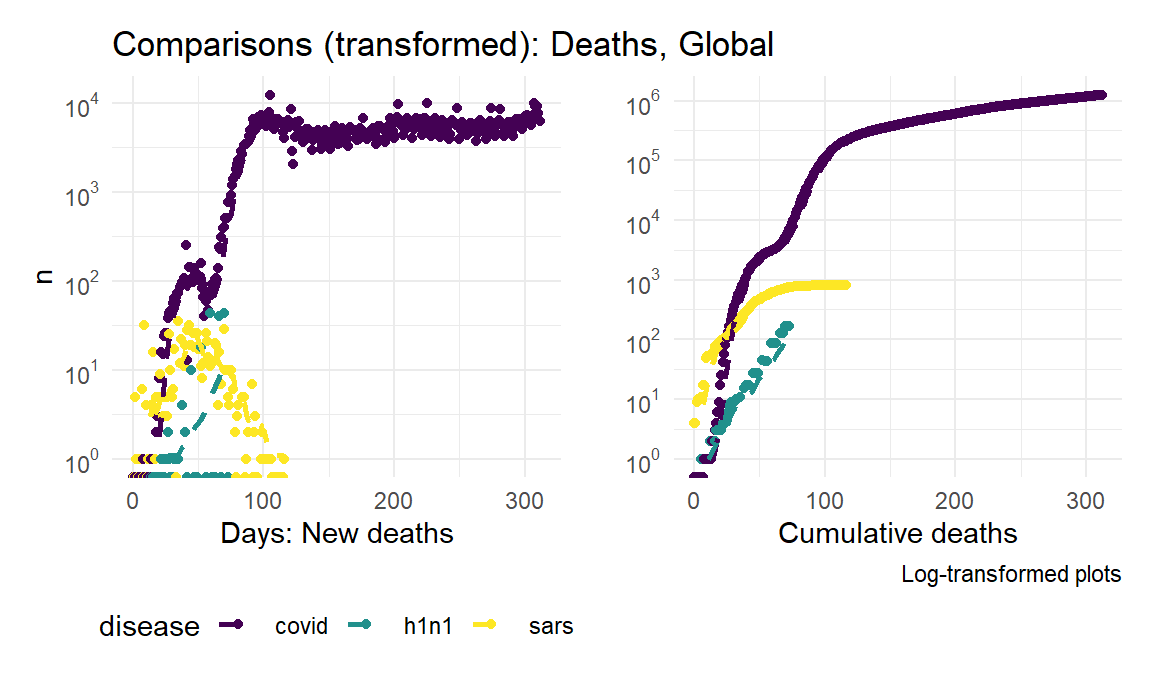
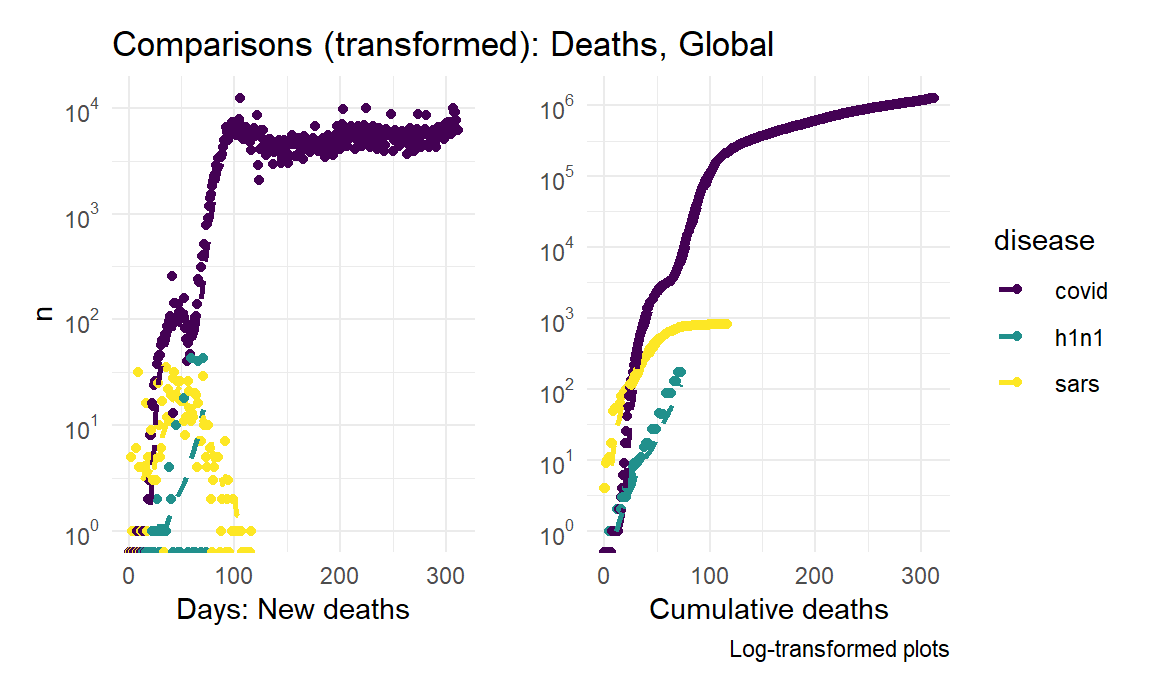
full report: discussion

diff --git a/full_report.html b/full_report.html
@@ -555,8 +555,8 @@ plot_2 =
 # Comparison-plot
 
 subplot(plot_1, plot_2, shareX = TRUE,  shareY = TRUE)</code></pre>
-<div id="htmlwidget-bc7682255256d6012be4" style="width:90%;height:345.6px;" class="plotly html-widget"></div>
-<script type="application/json" data-for="htmlwidget-bc7682255256d6012be4">{"x":{"data":[{"x":[1,2,3,4,5,6,7],"y":[439,1035,2166,2157,1270,629,338],"type":"bar","marker":{"colorbar":{"title":"mortality","ticklen":2},"cmin":338,"cmax":2166,"colorscale":[["0","rgba(68,1,84,1)"],["0.0416666666666667","rgba(70,19,97,1)"],["0.0833333333333334","rgba(72,32,111,1)"],["0.125","rgba(71,45,122,1)"],["0.166666666666667","rgba(68,58,128,1)"],["0.208333333333333","rgba(64,70,135,1)"],["0.25","rgba(60,82,138,1)"],["0.291666666666667","rgba(56,93,140,1)"],["0.333333333333333","rgba(49,104,142,1)"],["0.375","rgba(46,114,142,1)"],["0.416666666666667","rgba(42,123,142,1)"],["0.458333333333333","rgba(38,133,141,1)"],["0.5","rgba(37,144,140,1)"],["0.541666666666667","rgba(33,154,138,1)"],["0.583333333333333","rgba(39,164,133,1)"],["0.625","rgba(47,174,127,1)"],["0.666666666666667","rgba(53,183,121,1)"],["0.708333333333333","rgba(79,191,110,1)"],["0.75","rgba(98,199,98,1)"],["0.791666666666667","rgba(119,207,85,1)"],["0.833333333333333","rgba(147,214,70,1)"],["0.875","rgba(172,220,52,1)"],["0.916666666666667","rgba(199,225,42,1)"],["0.958333333333333","rgba(226,228,40,1)"],["1","rgba(253,231,37,1)"]],"showscale":false,"color":[439,1035,2166,2157,1270,629,338],"line":{"colorbar":{"title":"","ticklen":2},"cmin":338,"cmax":2166,"colorscale":[["0","rgba(68,1,84,1)"],["0.0416666666666667","rgba(70,19,97,1)"],["0.0833333333333334","rgba(72,32,111,1)"],["0.125","rgba(71,45,122,1)"],["0.166666666666667","rgba(68,58,128,1)"],["0.208333333333333","rgba(64,70,135,1)"],["0.25","rgba(60,82,138,1)"],["0.291666666666667","rgba(56,93,140,1)"],["0.333333333333333","rgba(49,104,142,1)"],["0.375","rgba(46,114,142,1)"],["0.416666666666667","rgba(42,123,142,1)"],["0.458333333333333","rgba(38,133,141,1)"],["0.5","rgba(37,144,140,1)"],["0.541666666666667","rgba(33,154,138,1)"],["0.583333333333333","rgba(39,164,133,1)"],["0.625","rgba(47,174,127,1)"],["0.666666666666667","rgba(53,183,121,1)"],["0.708333333333333","rgba(79,191,110,1)"],["0.75","rgba(98,199,98,1)"],["0.791666666666667","rgba(119,207,85,1)"],["0.833333333333333","rgba(147,214,70,1)"],["0.875","rgba(172,220,52,1)"],["0.916666666666667","rgba(199,225,42,1)"],["0.958333333333333","rgba(226,228,40,1)"],["1","rgba(253,231,37,1)"]],"showscale":false,"color":[439,1035,2166,2157,1270,629,338]}},"xaxis":"x","yaxis":"y","frame":null},{"x":[1,7],"y":[338,2166],"type":"scatter","mode":"markers","opacity":0,"hoverinfo":"none","showlegend":false,"marker":{"colorbar":{"title":"mortality","ticklen":2,"len":0.333333333333333,"lenmode":"fraction","y":1,"yanchor":"top"},"cmin":338,"cmax":2166,"colorscale":[["0","rgba(68,1,84,1)"],["0.0416666666666667","rgba(70,19,97,1)"],["0.0833333333333334","rgba(72,32,111,1)"],["0.125","rgba(71,45,122,1)"],["0.166666666666667","rgba(68,58,128,1)"],["0.208333333333333","rgba(64,70,135,1)"],["0.25","rgba(60,82,138,1)"],["0.291666666666667","rgba(56,93,140,1)"],["0.333333333333333","rgba(49,104,142,1)"],["0.375","rgba(46,114,142,1)"],["0.416666666666667","rgba(42,123,142,1)"],["0.458333333333333","rgba(38,133,141,1)"],["0.5","rgba(37,144,140,1)"],["0.541666666666667","rgba(33,154,138,1)"],["0.583333333333333","rgba(39,164,133,1)"],["0.625","rgba(47,174,127,1)"],["0.666666666666667","rgba(53,183,121,1)"],["0.708333333333333","rgba(79,191,110,1)"],["0.75","rgba(98,199,98,1)"],["0.791666666666667","rgba(119,207,85,1)"],["0.833333333333333","rgba(147,214,70,1)"],["0.875","rgba(172,220,52,1)"],["0.916666666666667","rgba(199,225,42,1)"],["0.958333333333333","rgba(226,228,40,1)"],["1","rgba(253,231,37,1)"]],"showscale":true,"color":[338,2166],"line":{"color":"rgba(255,127,14,1)"}},"xaxis":"x","yaxis":"y","frame":null},{"x":[1,2,3,4,5,6,7],"y":[216,251,294,320,322,286,206],"type":"bar","marker":{"colorbar":{"title":"mortality","ticklen":2},"cmin":206,"cmax":322,"colorscale":[["0","rgba(68,1,84,1)"],["0.0416666666666667","rgba(70,19,97,1)"],["0.0833333333333332","rgba(72,32,111,1)"],["0.125","rgba(71,45,122,1)"],["0.166666666666667","rgba(68,58,128,1)"],["0.208333333333333","rgba(64,70,135,1)"],["0.25","rgba(60,82,138,1)"],["0.291666666666667","rgba(56,93,140,1)"],["0.333333333333333","rgba(49,104,142,1)"],["0.375","rgba(46,114,142,1)"],["0.416666666666667","rgba(42,123,142,1)"],["0.458333333333333","rgba(38,133,141,1)"],["0.5","rgba(37,144,140,1)"],["0.541666666666667","rgba(33,154,138,1)"],["0.583333333333333","rgba(39,164,133,1)"],["0.625","rgba(47,174,127,1)"],["0.666666666666667","rgba(53,183,121,1)"],["0.708333333333333","rgba(79,191,110,1)"],["0.75","rgba(98,199,98,1)"],["0.791666666666667","rgba(119,207,85,1)"],["0.833333333333333","rgba(147,214,70,1)"],["0.875","rgba(172,220,52,1)"],["0.916666666666667","rgba(199,225,42,1)"],["0.958333333333333","rgba(226,228,40,1)"],["1","rgba(253,231,37,1)"]],"showscale":false,"color":[216,251,294,320,322,286,206],"line":{"colorbar":{"title":"","ticklen":2},"cmin":206,"cmax":322,"colorscale":[["0","rgba(68,1,84,1)"],["0.0416666666666667","rgba(70,19,97,1)"],["0.0833333333333332","rgba(72,32,111,1)"],["0.125","rgba(71,45,122,1)"],["0.166666666666667","rgba(68,58,128,1)"],["0.208333333333333","rgba(64,70,135,1)"],["0.25","rgba(60,82,138,1)"],["0.291666666666667","rgba(56,93,140,1)"],["0.333333333333333","rgba(49,104,142,1)"],["0.375","rgba(46,114,142,1)"],["0.416666666666667","rgba(42,123,142,1)"],["0.458333333333333","rgba(38,133,141,1)"],["0.5","rgba(37,144,140,1)"],["0.541666666666667","rgba(33,154,138,1)"],["0.583333333333333","rgba(39,164,133,1)"],["0.625","rgba(47,174,127,1)"],["0.666666666666667","rgba(53,183,121,1)"],["0.708333333333333","rgba(79,191,110,1)"],["0.75","rgba(98,199,98,1)"],["0.791666666666667","rgba(119,207,85,1)"],["0.833333333333333","rgba(147,214,70,1)"],["0.875","rgba(172,220,52,1)"],["0.916666666666667","rgba(199,225,42,1)"],["0.958333333333333","rgba(226,228,40,1)"],["1","rgba(253,231,37,1)"]],"showscale":false,"color":[216,251,294,320,322,286,206]}},"xaxis":"x2","yaxis":"y","frame":null},{"x":[1,7],"y":[206,322],"type":"scatter","mode":"markers","opacity":0,"hoverinfo":"none","showlegend":false,"marker":{"colorbar":{"title":"mortality","ticklen":2,"len":0.333333333333333,"lenmode":"fraction","y":0.666666666666667,"yanchor":"top"},"cmin":206,"cmax":322,"colorscale":[["0","rgba(68,1,84,1)"],["0.0416666666666667","rgba(70,19,97,1)"],["0.0833333333333332","rgba(72,32,111,1)"],["0.125","rgba(71,45,122,1)"],["0.166666666666667","rgba(68,58,128,1)"],["0.208333333333333","rgba(64,70,135,1)"],["0.25","rgba(60,82,138,1)"],["0.291666666666667","rgba(56,93,140,1)"],["0.333333333333333","rgba(49,104,142,1)"],["0.375","rgba(46,114,142,1)"],["0.416666666666667","rgba(42,123,142,1)"],["0.458333333333333","rgba(38,133,141,1)"],["0.5","rgba(37,144,140,1)"],["0.541666666666667","rgba(33,154,138,1)"],["0.583333333333333","rgba(39,164,133,1)"],["0.625","rgba(47,174,127,1)"],["0.666666666666667","rgba(53,183,121,1)"],["0.708333333333333","rgba(79,191,110,1)"],["0.75","rgba(98,199,98,1)"],["0.791666666666667","rgba(119,207,85,1)"],["0.833333333333333","rgba(147,214,70,1)"],["0.875","rgba(172,220,52,1)"],["0.916666666666667","rgba(199,225,42,1)"],["0.958333333333333","rgba(226,228,40,1)"],["1","rgba(253,231,37,1)"]],"showscale":true,"color":[206,322],"line":{"color":"rgba(214,39,40,1)"}},"xaxis":"x2","yaxis":"y","frame":null}],"layout":{"xaxis":{"domain":[0,0.48],"automargin":true,"title":"Spanish flu","anchor":"y"},"xaxis2":{"domain":[0.52,1],"automargin":true,"title":"COVID-19 (weeks)","anchor":"y"},"yaxis":{"domain":[0,1],"automargin":true,"title":"mortality","anchor":"x"},"annotations":[],"shapes":[],"images":[],"margin":{"b":40,"l":60,"t":25,"r":10},"title":"Spanish Flu vs COVID-19: Peak 7 weeks (Chicago)","hovermode":"closest","showlegend":true,"legend":{"yanchor":"top","y":0.333333333333333}},"attrs":{"29b46ae0632":{"x":{},"y":{},"color":{},"alpha_stroke":1,"sizes":[10,100],"spans":[1,20],"type":"bar"},"29b46bad187":{"x":{},"y":{},"color":{},"alpha_stroke":1,"sizes":[10,100],"spans":[1,20],"type":"bar"}},"source":"A","config":{"showSendToCloud":false},"highlight":{"on":"plotly_click","persistent":false,"dynamic":false,"selectize":false,"opacityDim":0.2,"selected":{"opacity":1},"debounce":0},"subplot":true,"shinyEvents":["plotly_hover","plotly_click","plotly_selected","plotly_relayout","plotly_brushed","plotly_brushing","plotly_clickannotation","plotly_doubleclick","plotly_deselect","plotly_afterplot","plotly_sunburstclick"],"base_url":"https://plot.ly"},"evals":[],"jsHooks":[]}</script>
+<div id="htmlwidget-001d4d0efa95390ac199" style="width:90%;height:345.6px;" class="plotly html-widget"></div>
+<script type="application/json" data-for="htmlwidget-001d4d0efa95390ac199">{"x":{"data":[{"x":[1,2,3,4,5,6,7],"y":[439,1035,2166,2157,1270,629,338],"type":"bar","marker":{"colorbar":{"title":"mortality","ticklen":2},"cmin":338,"cmax":2166,"colorscale":[["0","rgba(68,1,84,1)"],["0.0416666666666667","rgba(70,19,97,1)"],["0.0833333333333334","rgba(72,32,111,1)"],["0.125","rgba(71,45,122,1)"],["0.166666666666667","rgba(68,58,128,1)"],["0.208333333333333","rgba(64,70,135,1)"],["0.25","rgba(60,82,138,1)"],["0.291666666666667","rgba(56,93,140,1)"],["0.333333333333333","rgba(49,104,142,1)"],["0.375","rgba(46,114,142,1)"],["0.416666666666667","rgba(42,123,142,1)"],["0.458333333333333","rgba(38,133,141,1)"],["0.5","rgba(37,144,140,1)"],["0.541666666666667","rgba(33,154,138,1)"],["0.583333333333333","rgba(39,164,133,1)"],["0.625","rgba(47,174,127,1)"],["0.666666666666667","rgba(53,183,121,1)"],["0.708333333333333","rgba(79,191,110,1)"],["0.75","rgba(98,199,98,1)"],["0.791666666666667","rgba(119,207,85,1)"],["0.833333333333333","rgba(147,214,70,1)"],["0.875","rgba(172,220,52,1)"],["0.916666666666667","rgba(199,225,42,1)"],["0.958333333333333","rgba(226,228,40,1)"],["1","rgba(253,231,37,1)"]],"showscale":false,"color":[439,1035,2166,2157,1270,629,338],"line":{"colorbar":{"title":"","ticklen":2},"cmin":338,"cmax":2166,"colorscale":[["0","rgba(68,1,84,1)"],["0.0416666666666667","rgba(70,19,97,1)"],["0.0833333333333334","rgba(72,32,111,1)"],["0.125","rgba(71,45,122,1)"],["0.166666666666667","rgba(68,58,128,1)"],["0.208333333333333","rgba(64,70,135,1)"],["0.25","rgba(60,82,138,1)"],["0.291666666666667","rgba(56,93,140,1)"],["0.333333333333333","rgba(49,104,142,1)"],["0.375","rgba(46,114,142,1)"],["0.416666666666667","rgba(42,123,142,1)"],["0.458333333333333","rgba(38,133,141,1)"],["0.5","rgba(37,144,140,1)"],["0.541666666666667","rgba(33,154,138,1)"],["0.583333333333333","rgba(39,164,133,1)"],["0.625","rgba(47,174,127,1)"],["0.666666666666667","rgba(53,183,121,1)"],["0.708333333333333","rgba(79,191,110,1)"],["0.75","rgba(98,199,98,1)"],["0.791666666666667","rgba(119,207,85,1)"],["0.833333333333333","rgba(147,214,70,1)"],["0.875","rgba(172,220,52,1)"],["0.916666666666667","rgba(199,225,42,1)"],["0.958333333333333","rgba(226,228,40,1)"],["1","rgba(253,231,37,1)"]],"showscale":false,"color":[439,1035,2166,2157,1270,629,338]}},"xaxis":"x","yaxis":"y","frame":null},{"x":[1,7],"y":[338,2166],"type":"scatter","mode":"markers","opacity":0,"hoverinfo":"none","showlegend":false,"marker":{"colorbar":{"title":"mortality","ticklen":2,"len":0.333333333333333,"lenmode":"fraction","y":1,"yanchor":"top"},"cmin":338,"cmax":2166,"colorscale":[["0","rgba(68,1,84,1)"],["0.0416666666666667","rgba(70,19,97,1)"],["0.0833333333333334","rgba(72,32,111,1)"],["0.125","rgba(71,45,122,1)"],["0.166666666666667","rgba(68,58,128,1)"],["0.208333333333333","rgba(64,70,135,1)"],["0.25","rgba(60,82,138,1)"],["0.291666666666667","rgba(56,93,140,1)"],["0.333333333333333","rgba(49,104,142,1)"],["0.375","rgba(46,114,142,1)"],["0.416666666666667","rgba(42,123,142,1)"],["0.458333333333333","rgba(38,133,141,1)"],["0.5","rgba(37,144,140,1)"],["0.541666666666667","rgba(33,154,138,1)"],["0.583333333333333","rgba(39,164,133,1)"],["0.625","rgba(47,174,127,1)"],["0.666666666666667","rgba(53,183,121,1)"],["0.708333333333333","rgba(79,191,110,1)"],["0.75","rgba(98,199,98,1)"],["0.791666666666667","rgba(119,207,85,1)"],["0.833333333333333","rgba(147,214,70,1)"],["0.875","rgba(172,220,52,1)"],["0.916666666666667","rgba(199,225,42,1)"],["0.958333333333333","rgba(226,228,40,1)"],["1","rgba(253,231,37,1)"]],"showscale":true,"color":[338,2166],"line":{"color":"rgba(255,127,14,1)"}},"xaxis":"x","yaxis":"y","frame":null},{"x":[1,2,3,4,5,6,7],"y":[216,251,294,320,322,286,206],"type":"bar","marker":{"colorbar":{"title":"mortality","ticklen":2},"cmin":206,"cmax":322,"colorscale":[["0","rgba(68,1,84,1)"],["0.0416666666666667","rgba(70,19,97,1)"],["0.0833333333333332","rgba(72,32,111,1)"],["0.125","rgba(71,45,122,1)"],["0.166666666666667","rgba(68,58,128,1)"],["0.208333333333333","rgba(64,70,135,1)"],["0.25","rgba(60,82,138,1)"],["0.291666666666667","rgba(56,93,140,1)"],["0.333333333333333","rgba(49,104,142,1)"],["0.375","rgba(46,114,142,1)"],["0.416666666666667","rgba(42,123,142,1)"],["0.458333333333333","rgba(38,133,141,1)"],["0.5","rgba(37,144,140,1)"],["0.541666666666667","rgba(33,154,138,1)"],["0.583333333333333","rgba(39,164,133,1)"],["0.625","rgba(47,174,127,1)"],["0.666666666666667","rgba(53,183,121,1)"],["0.708333333333333","rgba(79,191,110,1)"],["0.75","rgba(98,199,98,1)"],["0.791666666666667","rgba(119,207,85,1)"],["0.833333333333333","rgba(147,214,70,1)"],["0.875","rgba(172,220,52,1)"],["0.916666666666667","rgba(199,225,42,1)"],["0.958333333333333","rgba(226,228,40,1)"],["1","rgba(253,231,37,1)"]],"showscale":false,"color":[216,251,294,320,322,286,206],"line":{"colorbar":{"title":"","ticklen":2},"cmin":206,"cmax":322,"colorscale":[["0","rgba(68,1,84,1)"],["0.0416666666666667","rgba(70,19,97,1)"],["0.0833333333333332","rgba(72,32,111,1)"],["0.125","rgba(71,45,122,1)"],["0.166666666666667","rgba(68,58,128,1)"],["0.208333333333333","rgba(64,70,135,1)"],["0.25","rgba(60,82,138,1)"],["0.291666666666667","rgba(56,93,140,1)"],["0.333333333333333","rgba(49,104,142,1)"],["0.375","rgba(46,114,142,1)"],["0.416666666666667","rgba(42,123,142,1)"],["0.458333333333333","rgba(38,133,141,1)"],["0.5","rgba(37,144,140,1)"],["0.541666666666667","rgba(33,154,138,1)"],["0.583333333333333","rgba(39,164,133,1)"],["0.625","rgba(47,174,127,1)"],["0.666666666666667","rgba(53,183,121,1)"],["0.708333333333333","rgba(79,191,110,1)"],["0.75","rgba(98,199,98,1)"],["0.791666666666667","rgba(119,207,85,1)"],["0.833333333333333","rgba(147,214,70,1)"],["0.875","rgba(172,220,52,1)"],["0.916666666666667","rgba(199,225,42,1)"],["0.958333333333333","rgba(226,228,40,1)"],["1","rgba(253,231,37,1)"]],"showscale":false,"color":[216,251,294,320,322,286,206]}},"xaxis":"x2","yaxis":"y","frame":null},{"x":[1,7],"y":[206,322],"type":"scatter","mode":"markers","opacity":0,"hoverinfo":"none","showlegend":false,"marker":{"colorbar":{"title":"mortality","ticklen":2,"len":0.333333333333333,"lenmode":"fraction","y":0.666666666666667,"yanchor":"top"},"cmin":206,"cmax":322,"colorscale":[["0","rgba(68,1,84,1)"],["0.0416666666666667","rgba(70,19,97,1)"],["0.0833333333333332","rgba(72,32,111,1)"],["0.125","rgba(71,45,122,1)"],["0.166666666666667","rgba(68,58,128,1)"],["0.208333333333333","rgba(64,70,135,1)"],["0.25","rgba(60,82,138,1)"],["0.291666666666667","rgba(56,93,140,1)"],["0.333333333333333","rgba(49,104,142,1)"],["0.375","rgba(46,114,142,1)"],["0.416666666666667","rgba(42,123,142,1)"],["0.458333333333333","rgba(38,133,141,1)"],["0.5","rgba(37,144,140,1)"],["0.541666666666667","rgba(33,154,138,1)"],["0.583333333333333","rgba(39,164,133,1)"],["0.625","rgba(47,174,127,1)"],["0.666666666666667","rgba(53,183,121,1)"],["0.708333333333333","rgba(79,191,110,1)"],["0.75","rgba(98,199,98,1)"],["0.791666666666667","rgba(119,207,85,1)"],["0.833333333333333","rgba(147,214,70,1)"],["0.875","rgba(172,220,52,1)"],["0.916666666666667","rgba(199,225,42,1)"],["0.958333333333333","rgba(226,228,40,1)"],["1","rgba(253,231,37,1)"]],"showscale":true,"color":[206,322],"line":{"color":"rgba(214,39,40,1)"}},"xaxis":"x2","yaxis":"y","frame":null}],"layout":{"xaxis":{"domain":[0,0.48],"automargin":true,"title":"Spanish flu","anchor":"y"},"xaxis2":{"domain":[0.52,1],"automargin":true,"title":"COVID-19 (weeks)","anchor":"y"},"yaxis":{"domain":[0,1],"automargin":true,"title":"mortality","anchor":"x"},"annotations":[],"shapes":[],"images":[],"margin":{"b":40,"l":60,"t":25,"r":10},"title":"Spanish Flu vs COVID-19: Peak 7 weeks (Chicago)","hovermode":"closest","showlegend":true,"legend":{"yanchor":"top","y":0.333333333333333}},"attrs":{"7806207334e":{"x":{},"y":{},"color":{},"alpha_stroke":1,"sizes":[10,100],"spans":[1,20],"type":"bar"},"780618d15dc":{"x":{},"y":{},"color":{},"alpha_stroke":1,"sizes":[10,100],"spans":[1,20],"type":"bar"}},"source":"A","config":{"showSendToCloud":false},"highlight":{"on":"plotly_click","persistent":false,"dynamic":false,"selectize":false,"opacityDim":0.2,"selected":{"opacity":1},"debounce":0},"subplot":true,"shinyEvents":["plotly_hover","plotly_click","plotly_selected","plotly_relayout","plotly_brushed","plotly_brushing","plotly_clickannotation","plotly_doubleclick","plotly_deselect","plotly_afterplot","plotly_sunburstclick"],"base_url":"https://plot.ly"},"evals":[],"jsHooks":[]}</script>
 <p>The graphs show similar parabolic curves, with the peak of maximum mortality due to Spanish flu in a week over 6 times the mortality of the current pandemic. Tracing the bars displays total mortality for a given week.</p>
 </div>
 <div id="sars" class="section level4">
@@ -625,7 +625,7 @@ h1n1_global_who %&gt;%
   geom_point(alpha = .5) +
   geom_ma(ma_fun = SMA, n = 7, size = 1) +
   labs(
-    x = &quot;Days: New  cases&quot;,
+    x = &quot;(Pandemic duration: Days) New  cases&quot;,
     y = &quot;n&quot;) +
   ggtitle(&quot;H1N1: Global&quot;)
 
@@ -648,7 +648,7 @@ h1n1_us_who %&gt;%
   geom_point(alpha = .5) +
   geom_ma(ma_fun = SMA, n = 7, size = 1) +
     labs(
-    x = &quot;Days: New cases&quot;,
+    x = &quot;(Pandemic duration: Days) New cases&quot;,
     y = &quot;n&quot;) +
    ggtitle(&quot;H1N1: United States&quot;)
 
@@ -679,9 +679,10 @@ global_cases %&gt;%
   geom_point() +
   geom_ma(ma_fun = SMA, n = 7, size = 1) +
   labs(
-    x = &quot;Days: New cases&quot;,
+    x = &quot;(Pandemic duration: Days) New cases&quot;,
     y = &quot;n&quot;) +
-   ggtitle(&quot;Comparisons: New cases, Global&quot;)
+   ggtitle(&quot;Comparisons: New cases, Global&quot;) +
+  theme(legend.position = &quot;hide&quot;)
 
 global_cumulative_cases_linear_plot =
 global_cases %&gt;% 
@@ -693,11 +694,12 @@ global_cases %&gt;%
     x = &quot;Cumulative cases&quot;,
     y = &quot;&quot;,
     caption = &quot;Linear plots&quot;
-  )
+  ) +
+  theme(legend.position = &quot;right&quot;)
 
 global_new_cases_linear_plot + global_cumulative_cases_linear_plot</code></pre>
 <p><img src="full_report_files/figure-html/unnamed-chunk-7-1.png" width="90%" /></p>
-<p>Given the orders of magnitude difference in incidence of COVID-19 compared with SARS and H1N1, a log-transformed visualization allows for more instructive comparison.</p>
+<p>Given the orders of magnitude difference in incidence of COVID-19 compared with SARS and H1N1, a log-transformed visualization allows for more instructive comparison. Since the focus is on the slope of these lines, log transformations better depict how pandemics track relative to each other.</p>
 <pre class="r"><code>##log-transformed
 global_new_cases_log_plot =
 global_cases %&gt;% 
@@ -707,9 +709,10 @@ global_cases %&gt;%
   geom_ma(ma_fun = SMA, n = 7, size = 1) +
   scale_y_log10(breaks = trans_breaks(&quot;log10&quot;, function(x) 10^x), labels = trans_format(&quot;log10&quot;, math_format(10^.x))) +
   labs(
-    x = &quot;Days: New cases&quot;,
+    x = &quot;(Pandemic duration: Days) New cases&quot;,
     y = &quot;n&quot;) +
-   ggtitle(&quot;Comparisons (transformed): New cases, Global&quot;)
+   ggtitle(&quot;Comparisons (transformed): New cases, Global&quot;) +
+   theme(legend.position = &quot;hide&quot;)
 
 global_cumulative_cases_log_plot =
 global_cases %&gt;% 
@@ -723,7 +726,7 @@ global_cases %&gt;%
     y = &quot;&quot;,
     caption = &quot;Log-transformed plots&quot;
   ) +
-  theme(legend.position = &quot;hide&quot;)
+  theme(legend.position = &quot;right&quot;)
 
 global_new_cases_log_plot + global_cumulative_cases_log_plot</code></pre>
 <p><img src="full_report_files/figure-html/unnamed-chunk-8-1.png" width="90%" /></p>
@@ -737,9 +740,10 @@ global_deaths %&gt;%
   geom_point() +
   geom_ma(ma_fun = SMA, n = 7, size = 1) +
   labs(
-    x = &quot;Days: New deaths&quot;,
+    x = &quot;(Pandemic duration: Days) New deaths&quot;,
     y = &quot;n&quot;) +
-   ggtitle(&quot;Comparisons: Deaths, Global&quot;)
+   ggtitle(&quot;Comparisons: Deaths, Global&quot;) +
+   theme(legend.position = &quot;hide&quot;)
 
 global_cumulative_deaths_linear_plot = 
 global_deaths %&gt;% 
@@ -752,7 +756,7 @@ global_deaths %&gt;%
     y = &quot;&quot;,
     caption = &quot;Linear plots&quot;
   ) +
-  theme(legend.position = &quot;hide&quot;)
+  theme(legend.position = &quot;right&quot;)
 
 global_new_deaths_log_plot =
 global_deaths %&gt;% 
@@ -764,7 +768,8 @@ global_deaths %&gt;%
   labs(
     x = &quot;Days: New deaths&quot;,
     y = &quot;n&quot;) +
- ggtitle(&quot;Comparisons (transformed): Deaths, Global&quot;)
+  ggtitle(&quot;Comparisons (transformed): Deaths, Global&quot;) +
+  theme(legend.position = &quot;hide&quot;)
 
 global_cumulative_deaths_log_plot =
 global_deaths %&gt;% 
@@ -778,7 +783,7 @@ global_deaths %&gt;%
     y = &quot;&quot;,
     caption = &quot;Log-transformed plots&quot;
     ) +
-   theme(legend.position = &quot;hide&quot;)
+   theme(legend.position = &quot;right&quot;)
 
 global_new_deaths_linear_plot + global_cumulative_deaths_linear_plot</code></pre>
 <p><img src="full_report_files/figure-html/unnamed-chunk-9-1.png" width="90%" /></p>
@@ -787,17 +792,71 @@ global_new_deaths_linear_plot + global_cumulative_deaths_linear_plot</code></pre
 </div>
 <div id="r0" class="section level4">
 <h4>R0</h4>
-<p>Any report on pandemics in incomplete without the analysis of the basic Reproductive rate, also called R0 (R naught). Prior to this pandemic, it was probably heard for the first time by many in the movie <a href="imdb.com/title/tt1598778/">Contagion</a>.</p>
-<p>A measure of how many cases a single infected individual can generate in a susceptible population, it helps quantify an outbreak’s intensity.</p>
-<p>(Visualizations, summaries, and exploratory statistical analyses. Justify the steps you took, and show any major changes to your ideas.)</p>
+<p>Any report on pandemics is incomplete without the analysis of the basic Reproductive rate, also called R0 (R naught), so we decided to include it in our study. Prior to this pandemic, it was probably heard for the first time by many in the movie <a href="imdb.com/title/tt1598778/">Contagion</a>.</p>
+<p>A measure of how many cases a single infected individual can generate in a susceptible population, R0 is not truly a rate and helps quantify an outbreak’s intensity. The following table displays the R0 for the pandemics discussed above, along with the time in days from exposure to symptoms of the disease, days from symptoms onset to maximum infectivity, and the proportion of individuals with mild symptoms.</p>
+<pre class="r"><code>load(&quot;./table_r0.rda&quot;)
+
+table_r0 %&gt;%
+  knitr::kable()</code></pre>
+<table>
+<thead>
+<tr class="header">
+<th align="left">x</th>
+<th align="left">covid_19</th>
+<th align="left">sars_2003</th>
+<th align="left">spanish_flu</th>
+<th align="left">h1n1_2009</th>
+</tr>
+</thead>
+<tbody>
+<tr class="odd">
+<td align="left">Basic Reproductive rate, R0</td>
+<td align="left">2·5</td>
+<td align="left">2·4</td>
+<td align="left">2·0</td>
+<td align="left">1·7</td>
+</tr>
+<tr class="even">
+<td align="left">Incubation period, days</td>
+<td align="left">4–12</td>
+<td align="left">2–7</td>
+<td align="left">Unknown</td>
+<td align="left">2</td>
+</tr>
+<tr class="odd">
+<td align="left">Interval between symptom onset and maximum infectivity, days</td>
+<td align="left">0</td>
+<td align="left">5–7</td>
+<td align="left">2</td>
+<td align="left">2</td>
+</tr>
+<tr class="even">
+<td align="left">Proportion with mild illness</td>
+<td align="left">High</td>
+<td align="left">Low</td>
+<td align="left">High</td>
+<td align="left">High</td>
+</tr>
+</tbody>
+</table>
+<p>Given that R0 would change with more data gathered for COVId-19, and based on the model used to calculate it, thus far On an average all pandemics showed similar R0 values, with H1N1 being the lowest. Spanish flu, with by far the greatest devastation in terms of death toll, had a slightly lower R0 than SARS and COVID-19. With R0 of 2.0, every individual with spanish flu, on an average, would have infected two other individuals.</p>
 </div>
 </div>
 <div id="discussion" class="section level3">
 <h3>Discussion</h3>
-<p>Comparison of the current COVID-19 pandemic with prior viral respiratory pathogen outbreaks reveal the severity of the current outbreak in terms of both global and US-specific incident cases and mortality burden.</p>
+<p>Comparison of the current COVID-19 pandemic with prior viral respiratory pathogen outbreaks reveal the severity of the current outbreak in terms of both global and US-specific incident cases and mortality burden. It helps put the scale of COVID-19 in perspective relative to prior similar pandemics.</p>
+<p>seemingly apart at first glance, study revealed some common interesting characteristics about pandemics. Cumulative cases for both SARS and H1N1 followed a logistic s-curve, fitting the spread of a disease through a healthy susceptible population. Such patterns reveal initial exponential growth, until the exhaustion of susceptible cases.</p>
+<p>That the new cases run in wave(s) was also evident. Lack of Spanish flu data restricted its analysis, however the image below from CDC show that it ran its course globally in 3 waves.</p>
+<div id="spanish-flu-waves-cdc" class="section level5">
+<h5><em>Spanish flu waves (CDC)</em></h5>
+<p><img src="https://www.cdc.gov/flu/pandemic-resources/1918-commemoration/images/death-chart.jpg" /></p>
+<p>Another interesting aspect of the Chicago Spanish flu dataset was that more people died from a secondary bacterial infection than the actual flu, indicating that the viral-bacterial co-pathogen complications were more prevalent than the primary viral disease itself. The findings reveal that we probably need to look beyond a pandemic’s primary cause for better planning and outcomes.</p>
+<p>Questions remain whether COVID-19 would turn into an endemic just as H1N1 did and Spanish flu did with its descendant virus, or fade out with time as SARS 2003 did? Third option seems less probable given COVID’s duration and geographic spread. With many questions unanswered at this point, with the ongoing data-updates globally, a peak into past pandemics provided a better understanding into such probable courses of current Corona virus.</p>
+<p>In conclusion, COVID-19 is certainly not the first pandemic, and probably not the last. Looking at past pandemics could give us some main takeaways for better preparedness and management. Researching about these past pandemics have taught us that certain non-medical measures did work in the past. For instance, according to "<a href="https://www.medicalnewstoday.com/articles/comparing-covid-19-with-previous-pandemics#1918:-The-Spanish-flu">Medical News Today"</a>, quick implementation of social-distancing and masking was effective during Spanish flu. Quarantine measures were highly effective during the SARS 2003 outbreak. More importantly, we are medically and scientifically better equipped than we were in the past, to bring the R0 number below one. At the end, pandemics do come to an end.</p>
 <hr />
 <p>Authors: <em>Jared Klug</em> | <em>David Nemirovsky</em> | <em>Matthew Lawlor</em> | <em>Purnima Sharma</em></p>
 <p>Students (Data Science, Fall 2020): <img src="pictures/logo.png" /></p>
+</div>
 </div>
 
 

diff --git a/covid_data.html b/covid_data.html
@@ -773,6 +773,60 @@ body {
 
 ## Getting data, page 58
 
+## Getting data, page 59
+
+## Getting data, page 60
+
+## Getting data, page 61
+
+## Getting data, page 62
+
+## Getting data, page 63
+
+## Getting data, page 64
+
+## Getting data, page 65
+
+## Getting data, page 66
+
+## Getting data, page 67
+
+## Getting data, page 68
+
+## Getting data, page 69
+
+## Getting data, page 70
+
+## Getting data, page 71
+
+## Getting data, page 72
+
+## Getting data, page 73
+
+## Getting data, page 74
+
+## Getting data, page 75
+
+## Getting data, page 76
+
+## Getting data, page 77
+
+## Getting data, page 78
+
+## Getting data, page 79
+
+## Getting data, page 80
+
+## Getting data, page 81
+
+## Getting data, page 82
+
+## Getting data, page 83
+
+## Getting data, page 84
+
+## Getting data, page 85
+
 ## `summarise()` ungrouping output (override with `.groups` argument)
 </code></pre>
 <div class="sourceCode" id="cb4"><pre class="sourceCode r"><code class="sourceCode r"><span id="cb4-1"><a href="#cb4-1"></a><span class="kw">save</span>(covid_us_cases_df, <span class="dt">file =</span> <span class="st">&quot;./covid_us_cases_df.rda&quot;</span>)</span>
@@ -780,7 +834,7 @@ body {
 <span id="cb4-3"><a href="#cb4-3"></a>covid_us_cases_df <span class="op">%&gt;%</span><span class="st"> </span></span>
 <span id="cb4-4"><a href="#cb4-4"></a><span class="st">  </span><span class="kw">ggplot</span>(<span class="kw">aes</span>(<span class="dt">x =</span> cdc_report_dt, <span class="dt">y =</span> cumulative_cases)) <span class="op">+</span></span>
 <span id="cb4-5"><a href="#cb4-5"></a><span class="st">  </span><span class="kw">geom_point</span>()</span></code></pre></div>
[2 lines of base64/hex data omitted]
 
 </body>
 </html>

diff --git a/covid_data.md b/covid_data.md
@@ -182,6 +182,60 @@ covid_us_cases_df =
 
     ## Getting data, page 58
 
+    ## Getting data, page 59
+
+    ## Getting data, page 60
+
+    ## Getting data, page 61
+
+    ## Getting data, page 62
+
+    ## Getting data, page 63
+
+    ## Getting data, page 64
+
+    ## Getting data, page 65
+
+    ## Getting data, page 66
+
+    ## Getting data, page 67
+
+    ## Getting data, page 68
+
+    ## Getting data, page 69
+
+    ## Getting data, page 70
+
+    ## Getting data, page 71
+
+    ## Getting data, page 72
+
+    ## Getting data, page 73
+
+    ## Getting data, page 74
+
+    ## Getting data, page 75
+
+    ## Getting data, page 76
+
+    ## Getting data, page 77
+
+    ## Getting data, page 78
+
+    ## Getting data, page 79
+
+    ## Getting data, page 80
+
+    ## Getting data, page 81
+
+    ## Getting data, page 82
+
+    ## Getting data, page 83
+
+    ## Getting data, page 84
+
+    ## Getting data, page 85
+
     ## `summarise()` ungrouping output (override with `.groups` argument)
 
 ``` r
